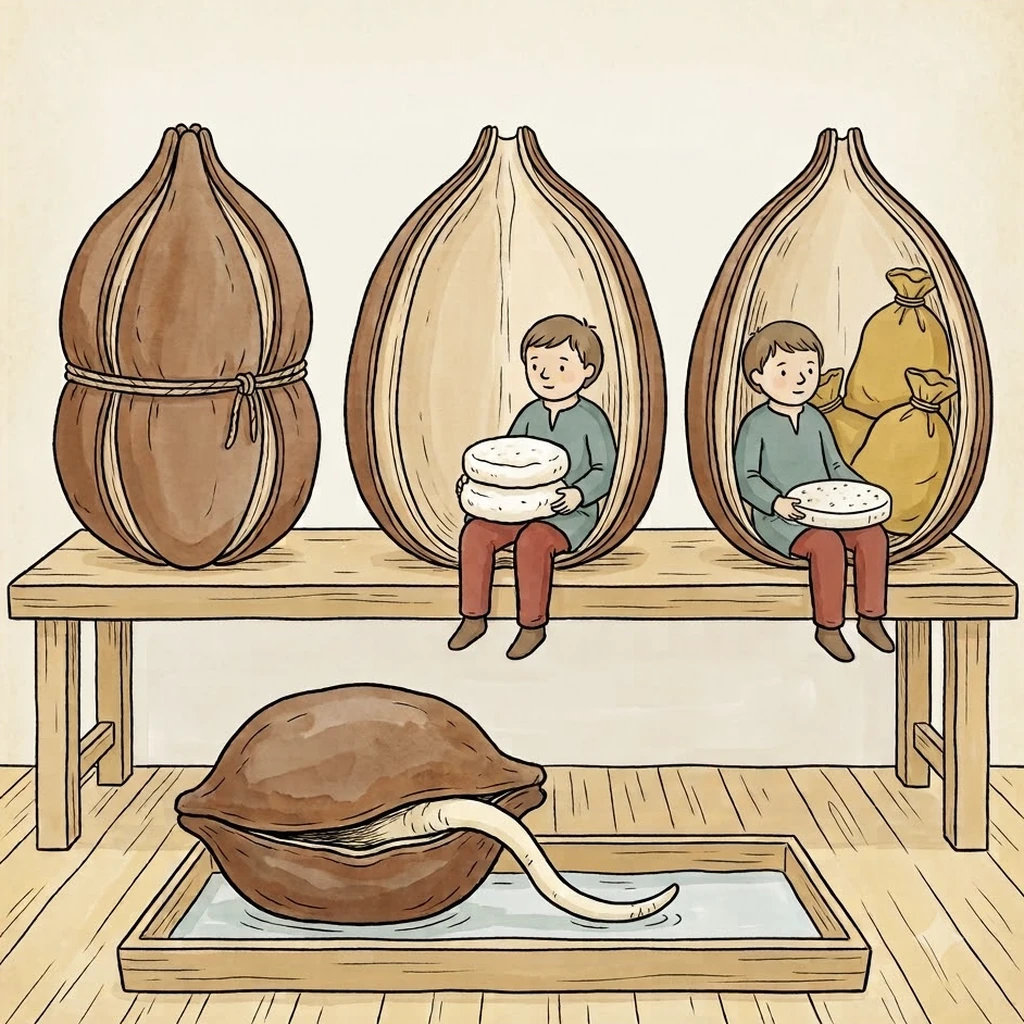
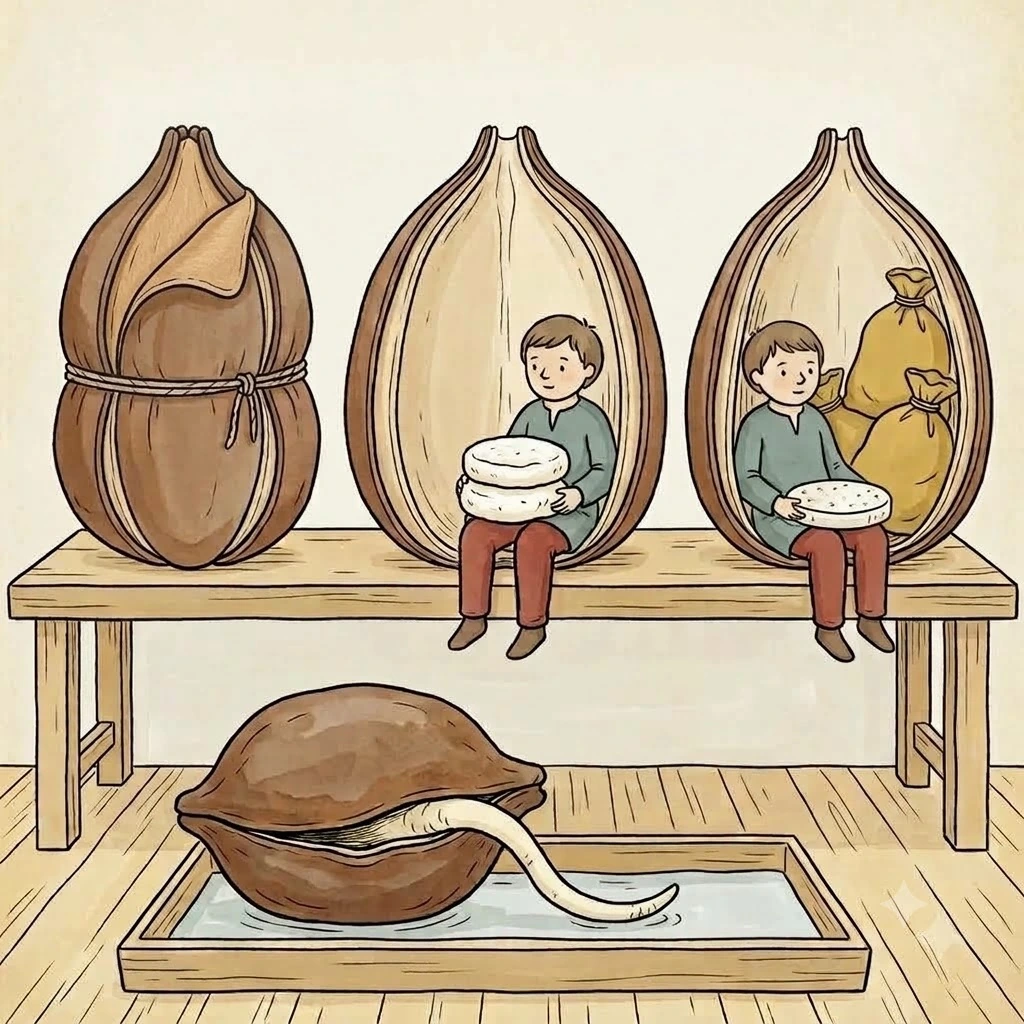
대기열 34 — s34p04 종피 두 겹: 왼쪽 통째 껍질 위 꼭지 곁에서 바깥 갈색 가죽이 젖혀져 밑의 밝은 속 가죽이 보임(주피 2겹 → 종피 2n) · 1행
제미나이 1라운드(s34p04_두겹가죽_v1). 격자 대조: 바뀐 곳은 왼쪽 껍질 위쪽뿐.

Claude-Session: https://claude.ai/code/session_01WoYBm6rvmofApXiAiUhif2

diff --git a/tools/prompts/QUEUE_0928.md b/tools/prompts/QUEUE_0928.md
@@ -84,7 +84,7 @@
 | ~~31~~ ✔ | s07p02 | s07p02_달걀둘_간장병_v3(달걀 둘 + F2 간장병 · 빨간 뚜껑 + 종지) | 현재 그림 | F1 FSH·LH + F2 간 | 3+5 |
 | ~~32~~ ✔ | s12p04 | s12p04_신발셋_v2(현재 그림 · 세는 것 못박음) + 손 보정(소녀 구두) | 현재 그림 | F1 B3 | 3 |
 | ~~33~~ ✔ | s33p02 | s33p02_오각고리_활송둘_v2(현재 그림 · + m 오른쪽 활송은 오각 고리) | 현재 그림 | F1 리보스 오각 | 3 |
-| 34 | s34p04 | s34p04_두겹가죽_v1 | _orig_s34p04 | F1 종피 두 겹 | 3 |
+| ~~34~~ ✔ | s34p04 | s34p04_두겹가죽_v1 | 현재 그림 | F1 종피 두 겹 | 3 |
 | 35 | s45p04 | s45p04_양산이센빛을_v1 | _orig_s45p04 | F1 광보호 | 3 |
 | 36 | s46p04 | s46p04_양면오목_v1 | _orig_s46p04 | F1 양면 오목 | 3 |
 | 37 | s08p02 | s08p02_사자머리둘_v1 | _orig_s08p02 | 음차 RyR2 | 2 |
